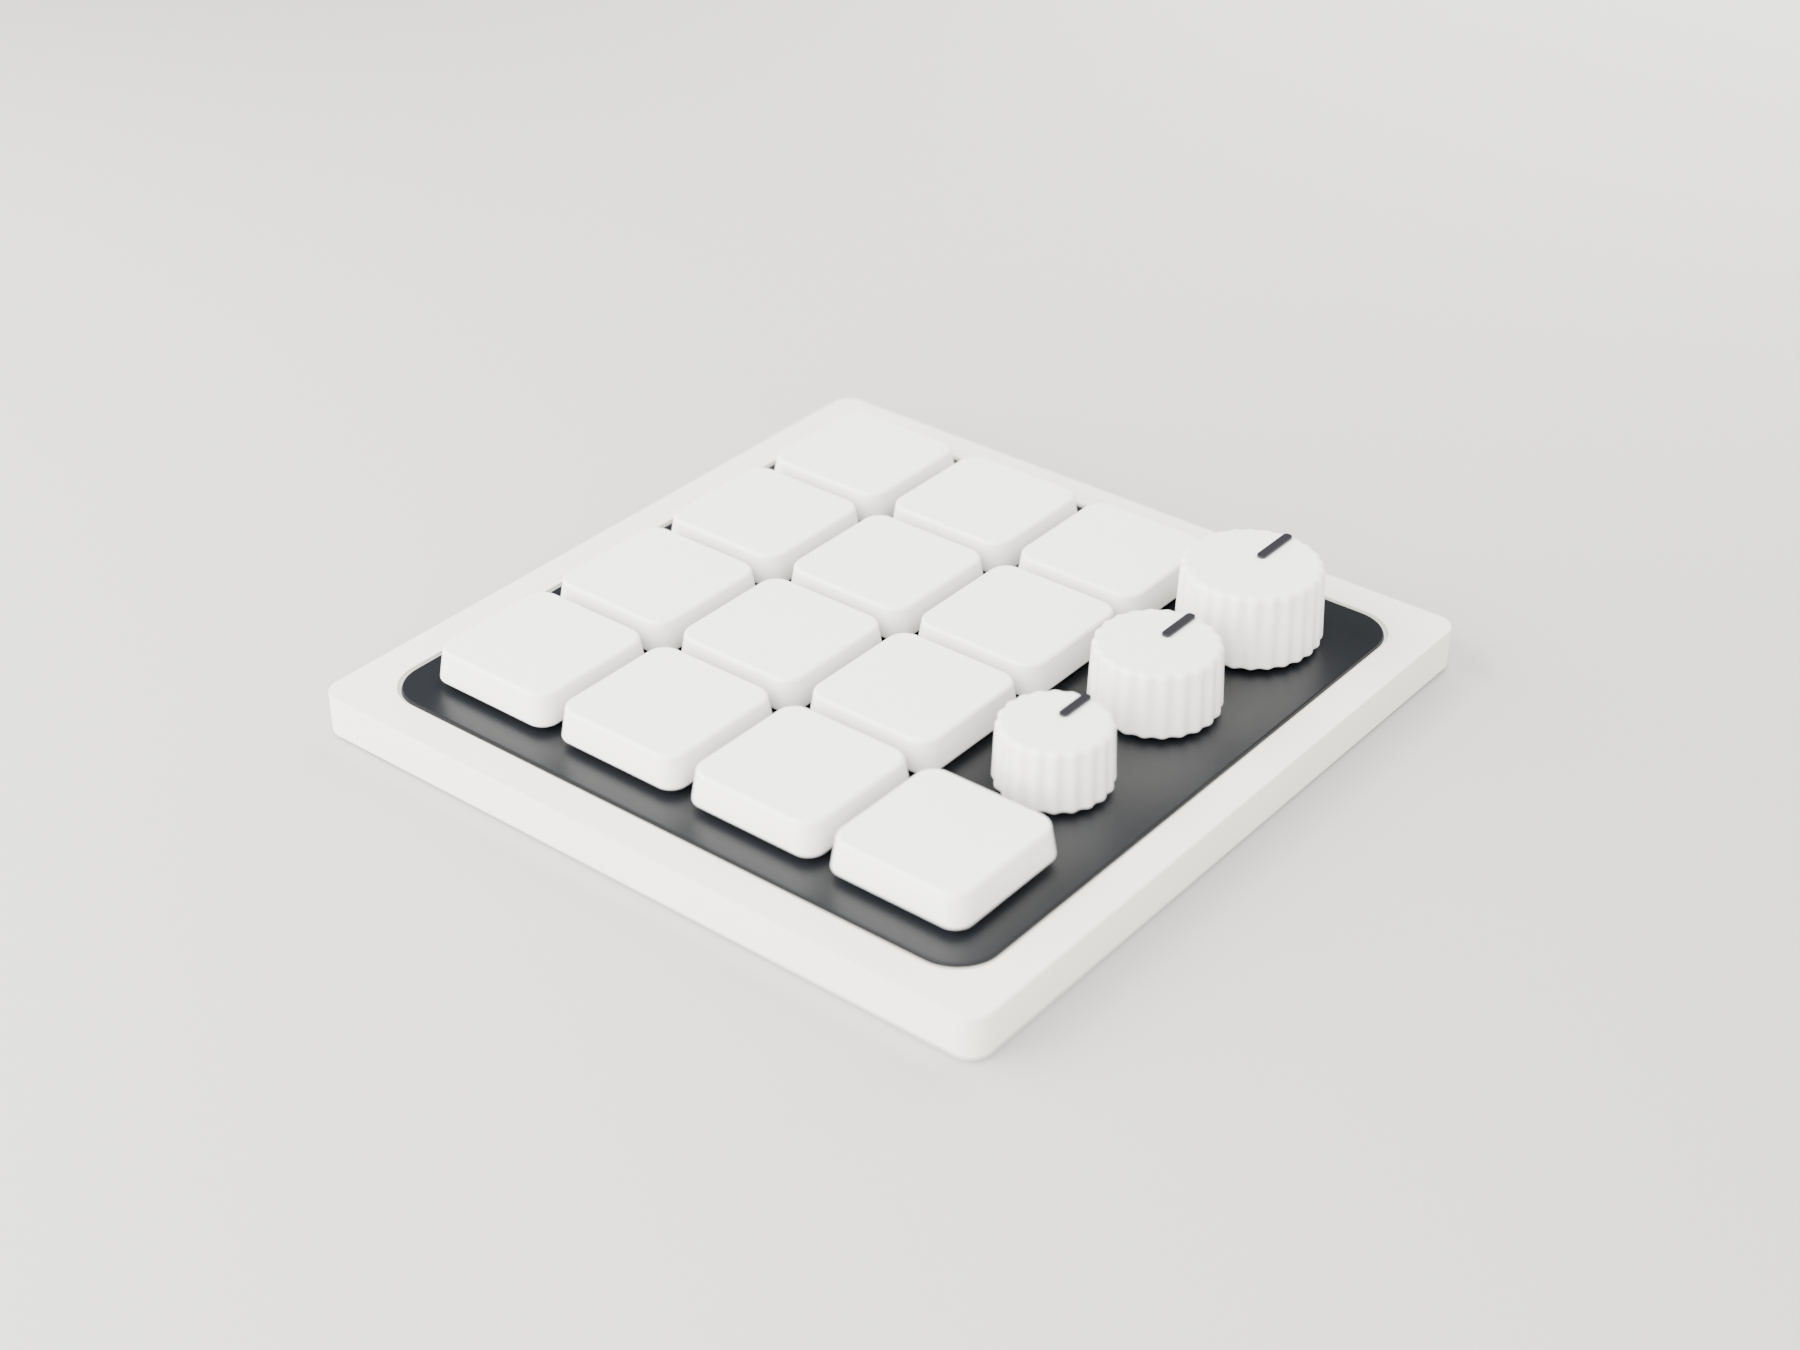
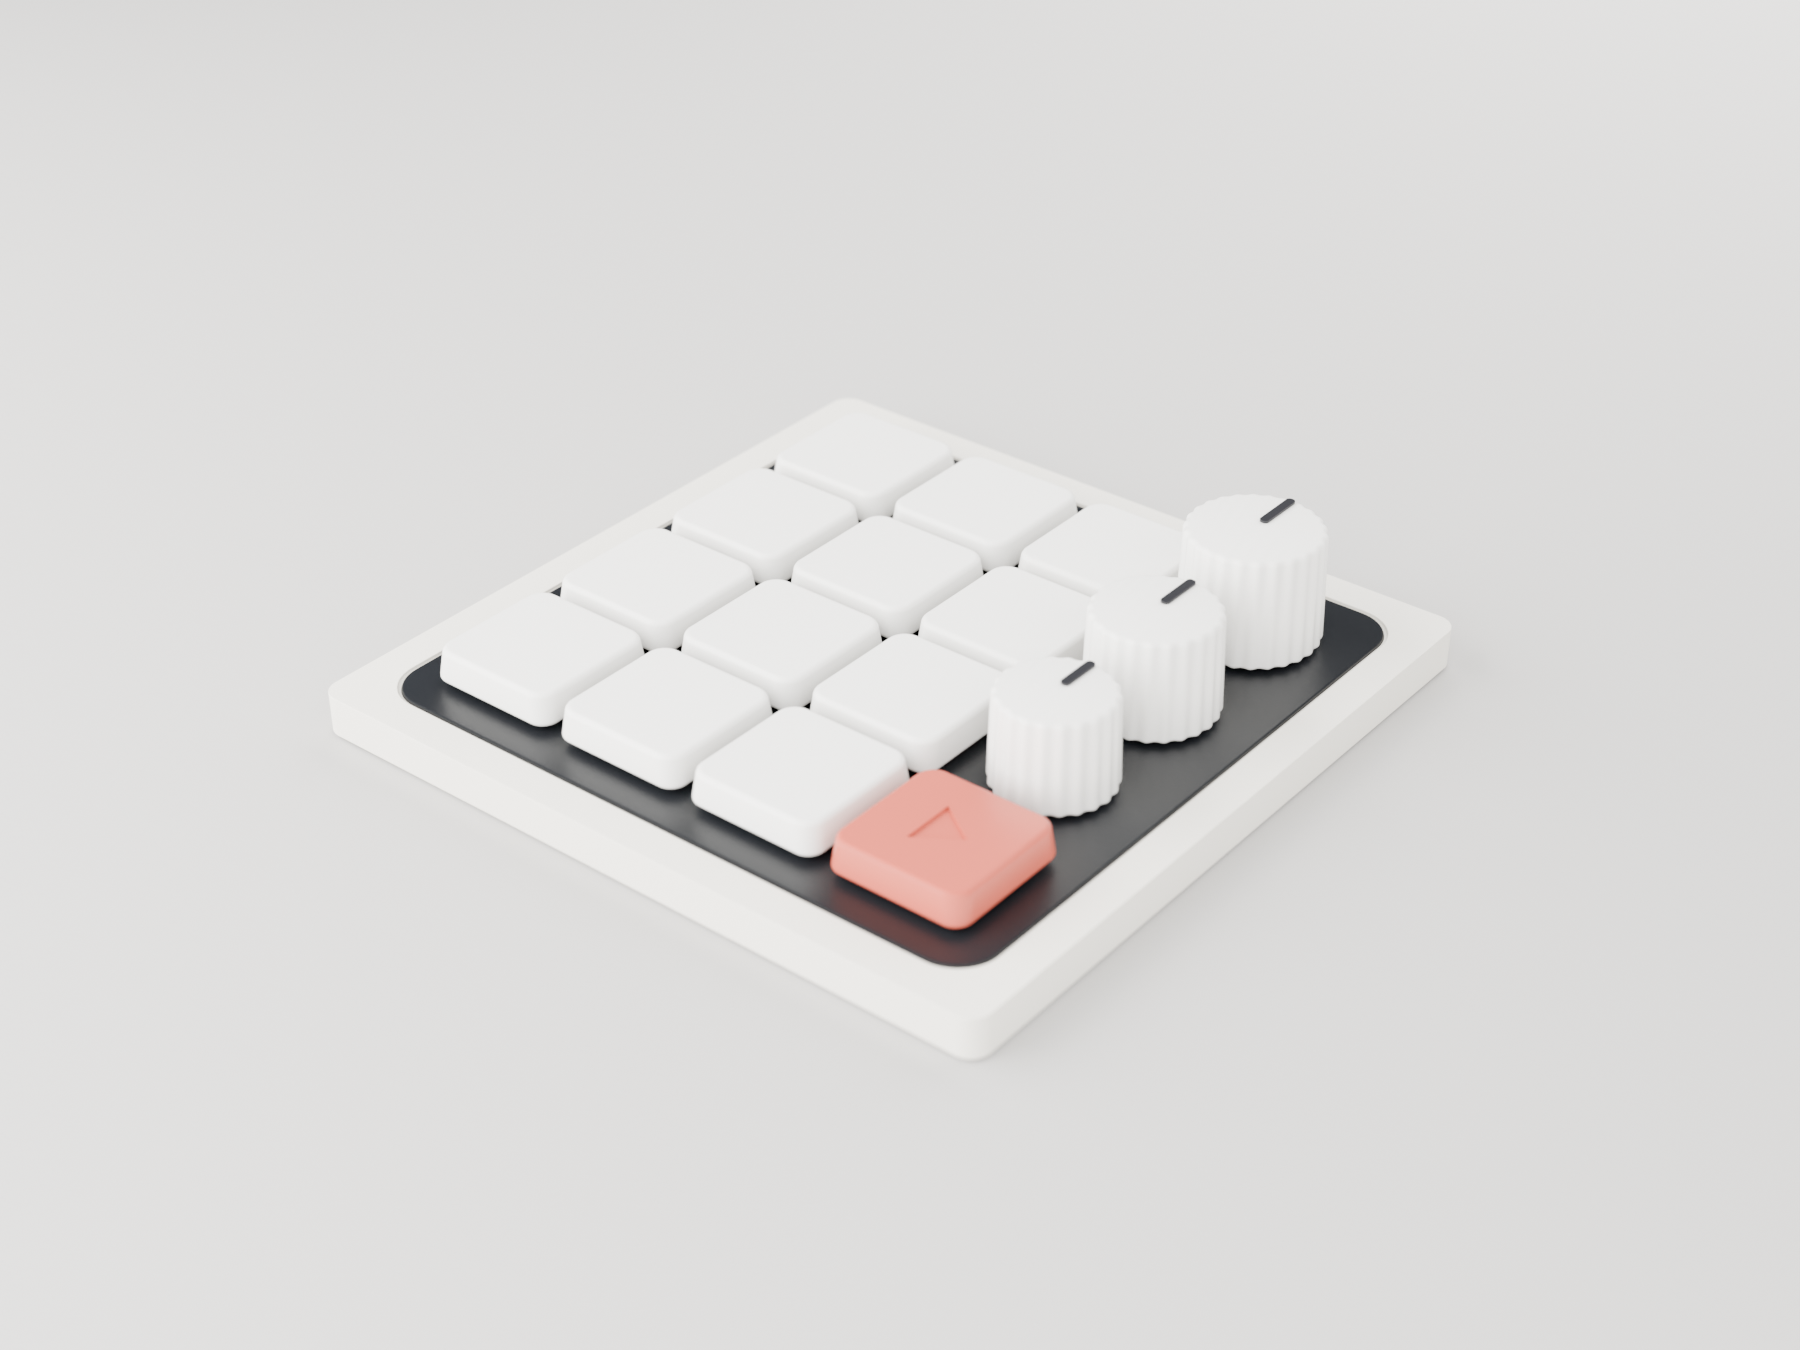
Control face v5.1: taller knobs, even optical gaps, accent play key, softer key rim
1. knobs 16.5/15.0/13.6mm tall (were 9-11) so they read as graspable shafts
2. diameters in closer steps (20.4/18.8/17.2) and the middle knob nudged 0.8mm
   off its grid cell -> equal 3.8mm EDGE gaps; grid-perfect centres looked uneven
   because the diameters shrink down the column
3. 16th cell is now a deliberate accent: play/stop key in the UI's red-orange
   with a debossed play triangle
4. key rim roll 0.45 -> 0.72mm so keys match the knobs' softness

diff --git a/case/face_keys_v5.py b/case/face_keys_v5.py
@@ -39,14 +39,15 @@ CAP_TOP = 20.0      # 1.0mm total taper: sides read vertical
 CAP_H = 4.8
 CAP_R = 2.6         # tighter than v4's 4.0 -> hardware, not app icon
 CAP_TOP_R = 2.8
-RIM = 0.45
+RIM = 0.72
 CAP_SIT = 1.0       # base above the deck surface
 
 # ---- knobs: (grid row from top, base diameter, height, flutes) ----
+# ordered top -> bottom: (name, diameter, height, flutes)
 KNOBS = [
-    ("Volume", 0, 20.4, 11.0, 26),
-    ("Tune",   1, 18.0, 9.6, 22),
-    ("Zoom",   2, 15.8, 9.0, 20),
+    ("Volume", 20.4, 16.5, 26),
+    ("Tune",   18.8, 15.0, 24),
+    ("Zoom",   17.2, 13.6, 22),
 ]
 KNOB_COL = 3        # rightmost column
 FLUTE_DEPTH = 0.38
@@ -172,6 +173,13 @@ def knob(name, cx, cy, z0, dia, height, flutes, dark_mat):
     return ob, ind
 
 
+def tri_prism(name, cx, cy, size, z0, z1):
+    """Equilateral-ish play triangle, pointing +x, as a shallow cutter."""
+    h = size * 0.5
+    pts = [(-h * 0.62, -h), (-h * 0.62, h), (h * 0.86, 0.0)]
+    return loft(name, pts, pts, z0, z1, cx, cy)
+
+
 def matte(name, color, rough=0.44, coat=0.0):
     m = bpy.data.materials.new(name)
     m.use_nodes = True
@@ -205,6 +213,7 @@ def build():
     knob_mat = matte("Knob", (0.930, 0.914, 0.872), rough=0.29, coat=0.16)
     ink_mat = matte("Inlay", (0.013, 0.014, 0.016), rough=0.42, coat=0.06)
     dark_mat = matte("Marker", (0.02, 0.02, 0.023), rough=0.5)
+    accent_mat = matte("Accent", (0.545, 0.108, 0.070), rough=0.34, coat=0.12)
 
     # ---- deck, pocketed flush for the plate ----
     deck = prism("Deck", 0, 0, PLATE, PLATE, DECK_R, 0, PT)
@@ -223,19 +232,34 @@ def build():
     smooth(ink)
     assign(ink, ink_mat)
 
-    # ---- grid ----
-    knob_rows = {r: (nm, d, h, f) for (nm, r, d, h, f) in KNOBS}
+    # ---- keys ----
     for row in range(N):
         for col in range(N):
+            if col == KNOB_COL and row < len(KNOBS):
+                continue                            # knob cells handled below
             cx = (col - (N - 1) / 2) * PITCH
-            cy = ((N - 1) / 2 - row) * PITCH      # row 0 = top
-            if col == KNOB_COL and row in knob_rows:
-                nm, dia, h, fl = knob_rows[row]
-                kb, ind = knob(nm, cx, cy, PT + 0.6, dia, h, fl, dark_mat)
-                assign(kb, knob_mat)
+            cy = ((N - 1) / 2 - row) * PITCH        # row 0 = top
+            cap = keycap(f"Key{row}{col}", cx, cy, PT + CAP_SIT)
+            if col == KNOB_COL and row == N - 1:
+                # the 16th cell: accent play/stop key with a debossed glyph
+                assign(cap, accent_mat)
+                boolean(cap, tri_prism("glyph", cx, cy, 8.2,
+                                       PT + CAP_SIT + CAP_H - 0.45,
+                                       PT + CAP_SIT + CAP_H + 1))
             else:
-                cap = keycap(f"Key{row}{col}", cx, cy, PT + CAP_SIT)
                 assign(cap, cap_mat)
+
+    # ---- knobs: centres nudged off-grid so the EDGE gaps are equal ----
+    kx = (KNOB_COL - (N - 1) / 2) * PITCH
+    y_top = ((N - 1) / 2 - 0) * PITCH
+    y_bot = ((N - 1) / 2 - (len(KNOBS) - 1)) * PITCH
+    r_top, r_bot = KNOBS[0][1] / 2, KNOBS[-1][1] / 2
+    # equal-gap solution for the middle knob (see notes): y2 = (y1+y3+r3-r1)/2
+    y_mid = (y_top + y_bot + r_bot - r_top) / 2
+    ys = [y_top, y_mid, y_bot]
+    for (nm, dia, h, fl), cy in zip(KNOBS, ys):
+        kb, ind = knob(nm, kx, cy, PT + 0.6, dia, h, fl, dark_mat)
+        assign(kb, knob_mat)
 
     # ---- studio ----
     bpy.ops.mesh.primitive_plane_add(size=3.4, location=(0, 0.55, -0.0004))
